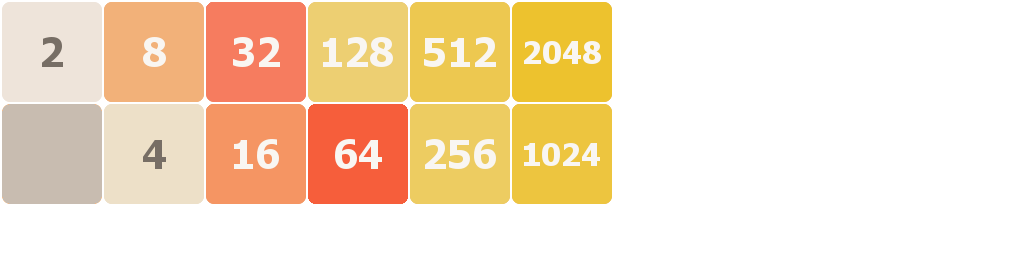
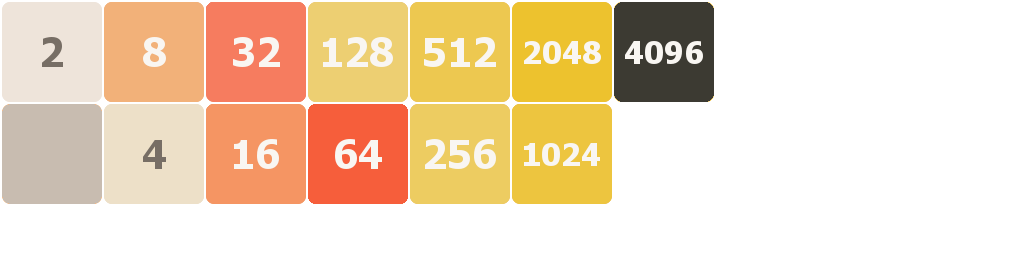
Removed SlidingTiles from this branch as it's still a work in progress. Made HumanSolver use recursive calls now to increase accuracy and added 4096 tile sprite manually (this should be redone programatically soon!) to prevent exceptions whenever 4096 tile is reached (which this Solver actually appe

Changed region(s): [[0.5938, 0.0, 0.7188, 0.4062]]

diff --git a/src/main/java/nl/tudelft/ti2206/gameobjects/Grid.java b/src/main/java/nl/tudelft/ti2206/gameobjects/Grid.java
@@ -85,7 +85,7 @@ public class Grid extends Actor {
 	private Tile[] tiles;
 
 	/** The array containing all sixteen tiles for sliding animations. */
-	private SlidingTile[] slidingTiles;
+//	private SlidingTile[] slidingTiles;
 
 	/** A randomizer is needed for filling tiles. */
 	private Random random;
@@ -116,21 +116,18 @@ public class Grid extends Actor {
 				.get("grid", Texture.class));
 		this.random = new Random();
 		this.tiles = new Tile[NTILES];
-		this.slidingTiles = new SlidingTile[NTILES];
+//		this.slidingTiles = new SlidingTile[NTILES];
 		this.iterator = new TileIterator(tiles);
-		this.tileHandler = new TileHandler(tiles, slidingTiles);
+		this.tileHandler = new TileHandler(tiles);//, slidingTiles);
 		
 		for (int i = 0; i < tiles.length; i++) {
 			tiles[i] = new Tile(i, 0);
-			slidingTiles[i] = new SlidingTile(tiles[i]);
+	//		slidingTiles[i] = new SlidingTile(tiles[i]);
 		}
 		
 		if (!isEmpty) {
 			initGrid();
 		}
-
-		/* After loading the grid, start the game. */
-	//	TwentyFourtyGame.setState(GameState.RUNNING);
 	}
 
 	/**
@@ -141,13 +138,13 @@ public class Grid extends Actor {
 		this.region = texture;
 		this.random = new Random();
 		this.tiles = new Tile[NTILES];
-		this.slidingTiles = new SlidingTile[NTILES];
+//		this.slidingTiles = new SlidingTile[NTILES];
 		this.iterator = new TileIterator(tiles);
-		this.tileHandler = new TileHandler(tiles, slidingTiles);
+	//	this.tileHandler = new TileHandler(tiles, slidingTiles);
 
 		for (int i = 0; i < tiles.length; i++) {
 			tiles[i] = new Tile(i, 0, skin, region);
-			slidingTiles[i] = new SlidingTile(tiles[i]);
+	//		slidingTiles[i] = new SlidingTile(tiles[i]);
 		}
 		
 		if (!isEmpty) {
@@ -155,7 +152,7 @@ public class Grid extends Actor {
 		}
 
 		/* After loading the grid, start the game. */
-		TwentyFourtyGame.setState(GameState.RUNNING);
+//		TwentyFourtyGame.setState(GameState.RUNNING);
 	}
 
 	/**
@@ -221,9 +218,9 @@ public class Grid extends Actor {
 		}
 		iterator.reset();
 		
-		for (SlidingTile tile : slidingTiles) {
-			tile.act(delta);
-		}
+//		for (SlidingTile tile : slidingTiles) {
+//			tile.act(delta);
+//		}
 
 		updateHighestTile();
 		if (score > highScore) {
@@ -240,10 +237,10 @@ public class Grid extends Actor {
 
 		score = 0;
 			
-		// FIXME: use iterator for sliding tiles
-		for (SlidingTile tile : slidingTiles) {
-			tile.reset();
-		}
+//		// FIXME: use iterator for sliding tiles
+//		for (SlidingTile tile : slidingTiles) {
+//			tile.reset();
+//		}
 		
 		while (iterator.hasNext()) {
 			iterator.next().reset();
@@ -259,7 +256,7 @@ public class Grid extends Actor {
 		highestTile = 0;
 		updateHighestTile();
 
-		TwentyFourtyGame.setState(GameState.RUNNING);
+//		TwentyFourtyGame.setState(GameState.RUNNING);
 	}
 
 	/**
@@ -518,9 +515,9 @@ public class Grid extends Actor {
 		}
 		
 		//FIXME: use iterator for slidingtiles
-		for (SlidingTile tile : slidingTiles) {
-			tile.draw(batch, parentAlpha);
-		}
+//		for (SlidingTile tile : slidingTiles) {
+//			tile.draw(batch, parentAlpha);
+//		}
 		
 		iterator.reset();
 	}

diff --git a/src/main/java/nl/tudelft/ti2206/solver/HumanSolver.java b/src/main/java/nl/tudelft/ti2206/solver/HumanSolver.java
@@ -7,6 +7,17 @@ import nl.tudelft.ti2206.gameobjects.Grid;
 import nl.tudelft.ti2206.gameobjects.Grid.Direction;
 import nl.tudelft.ti2206.gameobjects.Tile;
 
+/**
+ * This class attempts to solve the grid using a 'human-like' strategy:
+ * - Keep the highest tile in one of the grid's corners (lower left in this case).
+ * - Merge tiles of equal values with each other whenever possible.
+ *
+ * By default, this class looked ahead two moves. However, to increase accuracy
+ * the last method (tryMoves) is now recursive:
+ * selectDirectionComplex + tryMoves(depth = 0) = look 2 moves ahead
+ * selectDirectionComplex + tryMoves(depth = 1) = look 3 moves ahead
+ */
+
 public class HumanSolver {
 
 	private static boolean wasRightMove = false;
@@ -29,7 +40,9 @@ public class HumanSolver {
 		return false;
 	}
 
-	public static int tryMoves(Grid ogrid) {
+	public static int nextMove(Grid ogrid, int depth) {
+		
+		//System.out.println("tryMoves, depth = " + depth);
 
 		int highest = 0;
 
@@ -46,15 +59,24 @@ public class HumanSolver {
 
 			Grid cloned = ogrid.clone();
 			cloned.move(direction);
-
+			
+			int score = cloned.getScore();
+			
+			if (depth > 0)
+				score += nextMove(cloned, depth - 1);
+			
 			// get highest score possible
-			highest = Math.max(highest, cloned.getScore());
+			highest = Math.max(highest, score);
 		}
 		return highest;
 	}
 
 	public static Direction selectDirectionComplex(Grid ogrid) {
 
+//		System.out.println("looking ahead!");
+		
+		int depth = 5;
+		
 		int score = ogrid.getScore();
 		Direction selected = null;
 
@@ -83,7 +105,7 @@ public class HumanSolver {
 			// if move actually is possible
 			if (cloned.move(direction) != -1) {
 
-				int pointsAfter = cloned.getScore() + tryMoves(cloned);
+				int pointsAfter = cloned.getScore() + nextMove(cloned, depth);
 
 				if (pointsAfter > score) {
 					score = pointsAfter;

diff --git a/src/main/java/nl/tudelft/ti2206/handlers/TileHandler.java b/src/main/java/nl/tudelft/ti2206/handlers/TileHandler.java
@@ -17,7 +17,7 @@ public class TileHandler {
 	private Tile[] tiles;
 
 	/** The array holding all the sliding tiles (for movement animation). */
-	private SlidingTile[] slidingTiles;
+//	private SlidingTile[] slidingTiles;
 
 	/** Indicates whether a move has been made. */
 	private boolean isMoveMade;
@@ -31,9 +31,9 @@ public class TileHandler {
 	 * @param tiles
 	 *            The array holding the tiles.
 	 */
-	public TileHandler(Tile[] tiles, SlidingTile[] slidingTiles) {
+	public TileHandler(Tile[] tiles) {//, SlidingTile[] slidingTiles) {
 		this.tiles = tiles;
-		this.slidingTiles = slidingTiles;
+//		this.slidingTiles = slidingTiles;
 		scoreIncrement = 0;
 	}
 
@@ -107,8 +107,8 @@ public class TileHandler {
 						collidee.setMerged(true);
 					}
 
-					slidingTiles[collider.getIndex()].move(collider,
-							collidee.getX(), collidee.getY());
+//					slidingTiles[collider.getIndex()].move(collider,
+//							collidee.getX(), collidee.getY());
 
 					collider.reset();
 					isMoveMade = true;
@@ -116,8 +116,9 @@ public class TileHandler {
 					collidee.doubleValue();
 					collidee.setMerged(true);
 					collidee.merge();
-					slidingTiles[collider.getIndex()].move(collider,
-							collidee.getX(), collidee.getY());
+
+//					slidingTiles[collider.getIndex()].move(collider,
+//							collidee.getX(), collidee.getY());
 
 					collider.reset();
 					scoreIncrement += collidee.getValue();

diff --git a/src/main/java/nl/tudelft/ti2206/handlers/InputHandler.java b/src/main/java/nl/tudelft/ti2206/handlers/InputHandler.java
@@ -74,7 +74,7 @@ public class InputHandler extends InputListener {
 			if (bmark == null) {
 				logger.debug(className,
 						"Solving this grid! At least, trying to...");
-				bmark = new Benchmark(grid, Strategy.HUMAN, 100, 5);
+				bmark = new Benchmark(grid, Strategy.HUMAN, 1, 100);
 				bmark.start();
 			} else if (bmark.isRunning()) {
 				bmark.stop();

diff --git a/src/main/java/nl/tudelft/ti2206/gameobjects/SlidingTile.java b/src/main/java/nl/tudelft/ti2206/gameobjects/SlidingTile.java
@@ -23,7 +23,7 @@ public class SlidingTile extends Actor {
 	private float destX, destY;
 	private float startX, startY;
 
-	public SlidingTile(Tile start) {
+	private SlidingTile(Tile start) {
 		this.setVisible(false);
 		startX = start.getX();
 		startY = start.getY();
